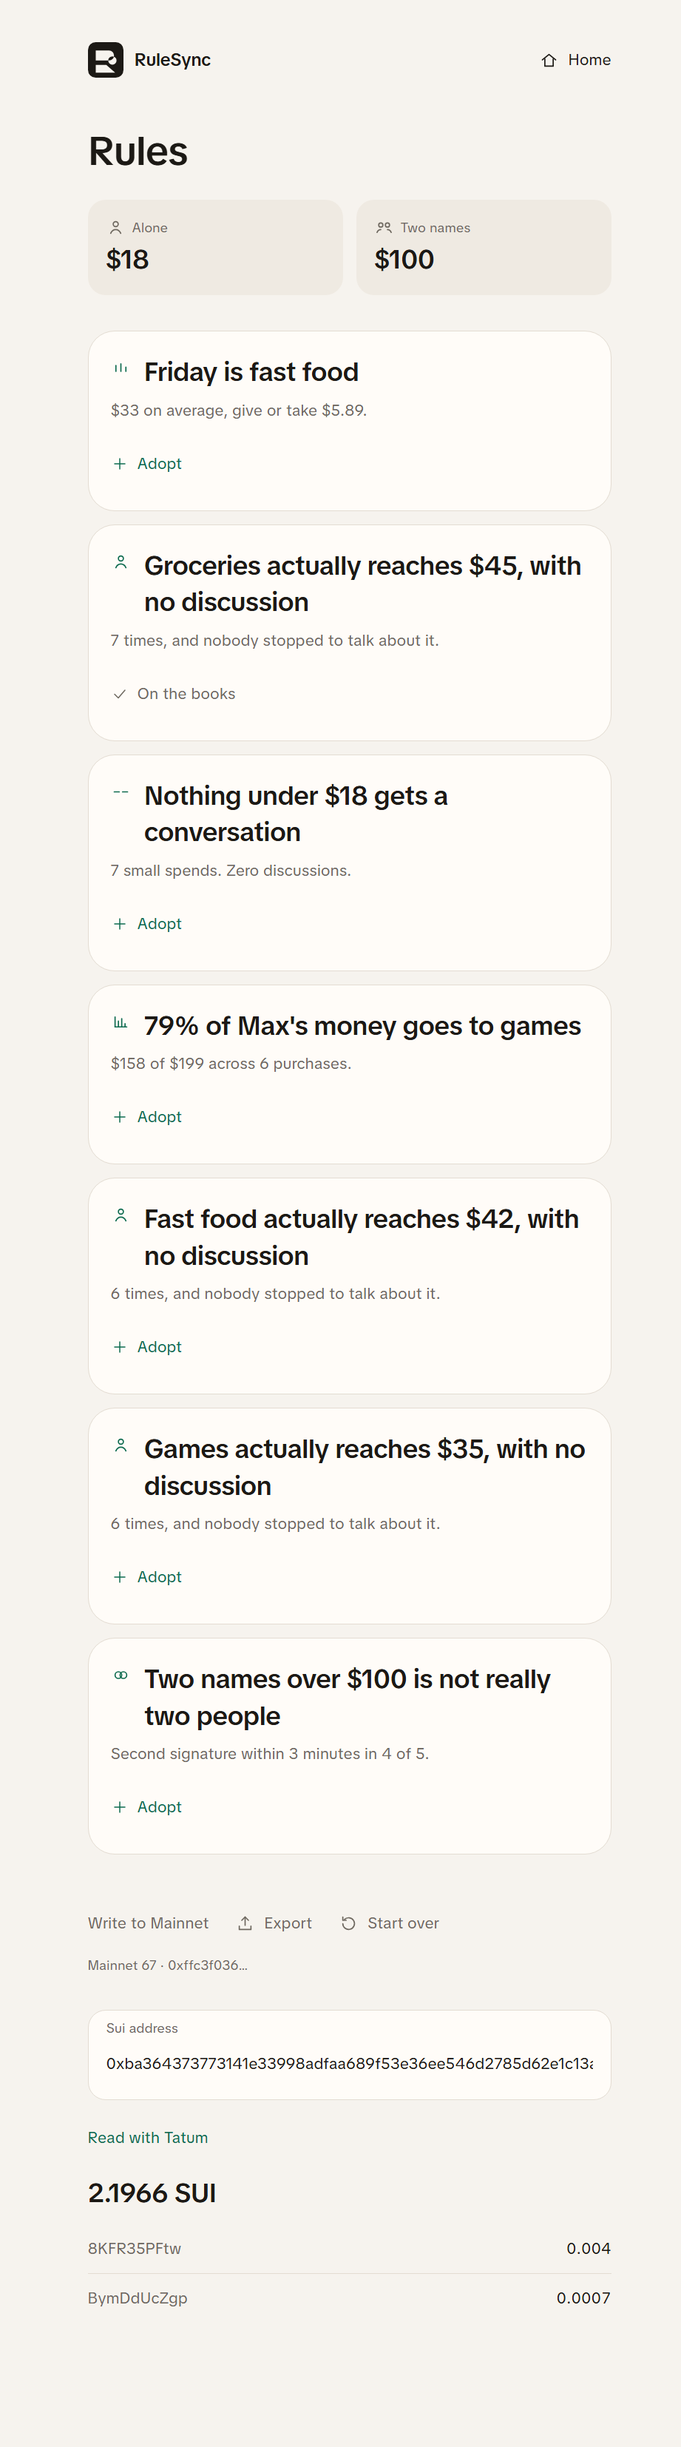
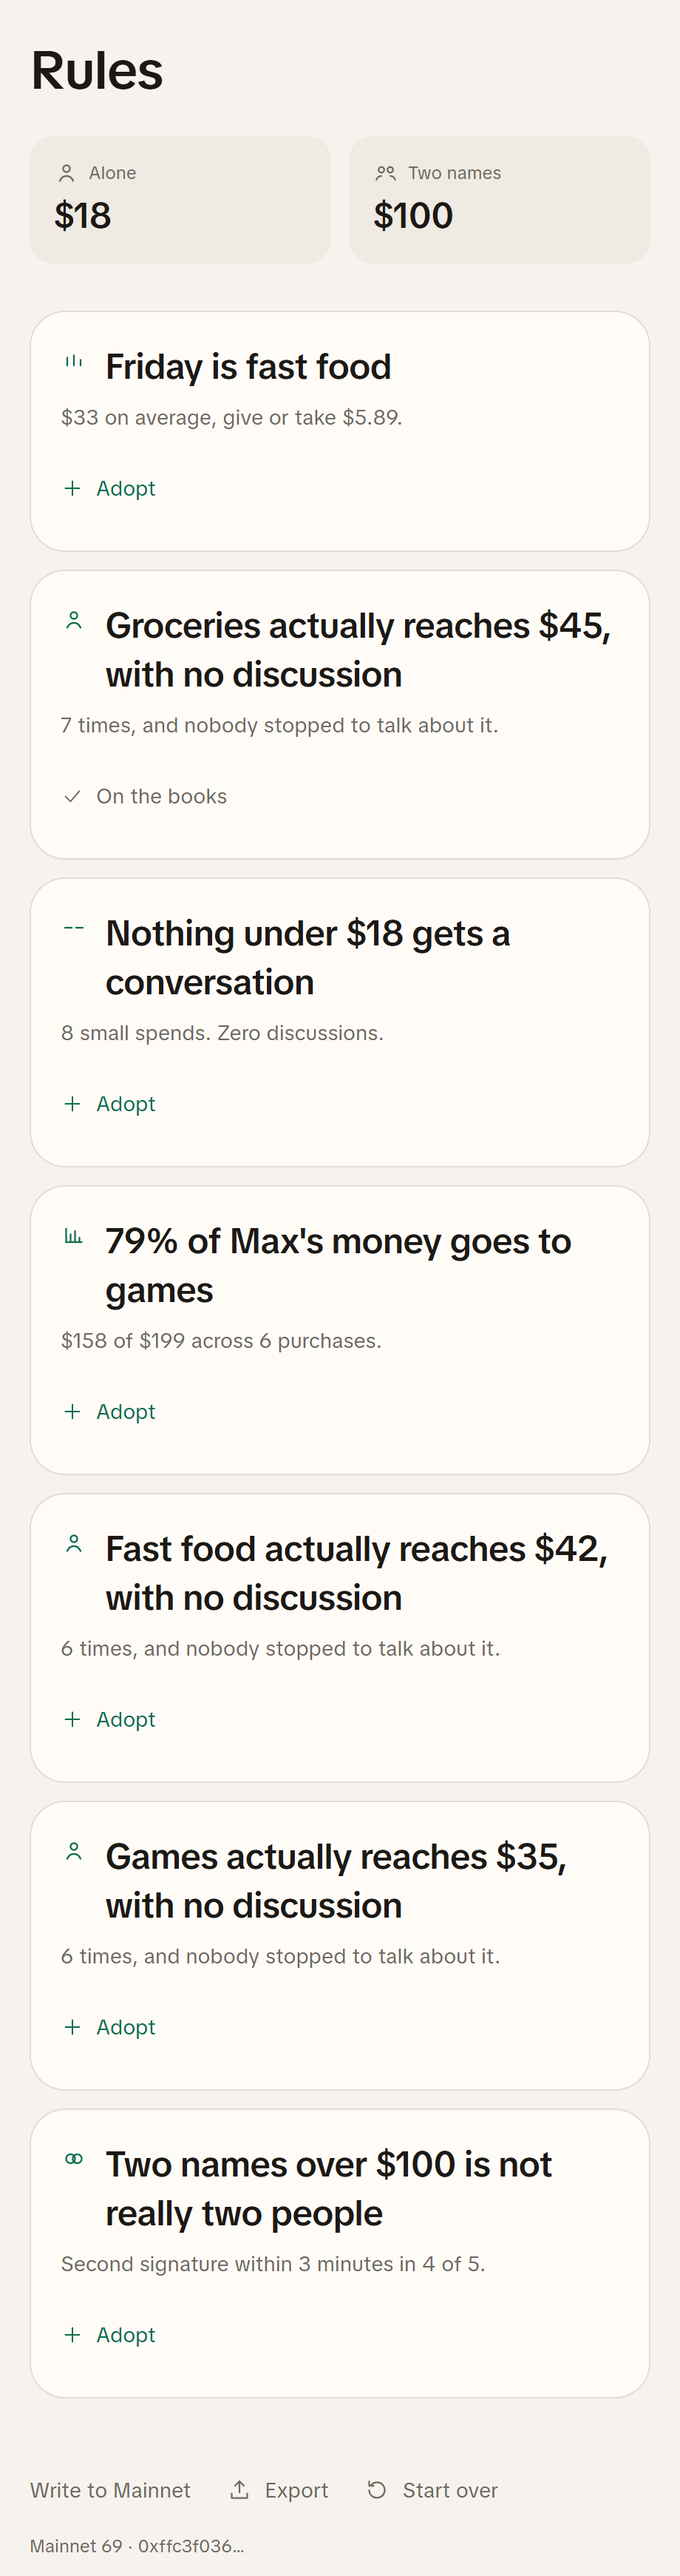
Show the house record in the memory panel and refresh the blog

diff --git a/src/lib/rulesync/chain.server.ts b/src/lib/rulesync/chain.server.ts
@@ -92,8 +92,14 @@ export async function listMemories(): Promise<{ ok: boolean; lines: string[]; er
   if (!walrusReady()) return { ok: false, lines: [], error: "Walrus is not configured" };
   try {
     const mem = await client();
-    const page = await mem.recall({ query: "RuleSync house spend adopted rule", limit: 30, namespace: NAMESPACE });
-    const lines = uniqueLines(page.results.map((hit) => hit.text)).filter((t) => t.startsWith("RuleSync "));
+    const [house, broad] = await Promise.all([
+      mem.recall({ query: HOUSE_QUERY, limit: 4, namespace: NAMESPACE }),
+      mem.recall({ query: "RuleSync spend adopted rule household", limit: 30, namespace: NAMESPACE }),
+    ]);
+    const lines = uniqueLines([
+      ...house.results.map((hit) => hit.text),
+      ...broad.results.map((hit) => hit.text),
+    ]).filter((t) => t.startsWith("RuleSync "));
     return { ok: true, lines };
   } catch (err) {
     return { ok: false, lines: [], error: err instanceof Error ? err.message : "Recall failed" };

diff --git a/blog/rulesync-total-recall.md b/blog/rulesync-total-recall.md
@@ -31,7 +31,7 @@ Each pattern needs repetition before it is allowed to speak. Nothing is inferred
 
 On the sample house that produces seven lived rules, including "Friday is fast food, $33 on average," "Groceries actually reaches $45," "79% of Max's money goes to games," and "Second signature within 3 minutes in 4 of 5."
 
-![Rules screen with the learned rules, adopted rule, Mainnet count, and Tatum reads](https://raw.githubusercontent.com/thesithunyein/rulesync/main/blog/images/rules.png)
+![Rules screen with the learned rules and the live Mainnet count](https://raw.githubusercontent.com/thesithunyein/rulesync/main/blog/images/rules.png)
 
 ## What gets remembered
 
@@ -51,6 +51,8 @@ The sentence is for recall and for a human reading the namespace. The payload is
 
 Rules the house has not adopted are recomputed from the restored spends. That keeps one source of truth: decisions and adoptions are memory, everything else is derived.
 
+The Rules screen also lists the rows Walrus actually returns in a Memory on Walrus panel, so the memory is inspectable rather than implied. A record that cannot affect the ledger, such as a spend with a non-positive amount, is ignored on restore and hidden from the panel.
+
 ## Restoring a house into an empty browser
 
 This is the part that matters. Everything above follows the house, not the browser. A new laptop, a cleared cache, or a second phone is where a shared budget normally dies.
@@ -61,15 +63,19 @@ On a cold load the app recovers the namespace before it shows anything to create
 
 `localStorage` cannot do this. It is per browser, it is a blob the app cannot query, and the second person in the household cannot see it. For shared money the memory has to live somewhere both people can reach, and it has to be readable by the app rather than by whoever remembers the password.
 
-## Tatum: reading Sui without putting the chain on screen
+## Tatum: reading Sui, then importing a transfer
 
 The Rules screen reads a Sui address through Tatum's Sui GraphQL gateway at `https://sui-mainnet.gateway.tatum.io/graphql`. JSON-RPC is no longer available on that gateway, so the app queries for the SUI balance and the last eight outgoing transactions, and turns negative balance changes into a short transfer list.
 
 At the time of writing the demo wallet reads 2.1966 SUI with two recent transfers.
 
-All of this happens in server functions. The Tatum key and the Walrus private key stay on the server; the browser only receives the balance, the transfer list, and the public account id. We checked the built client bundles for the key names before shipping.
+A transfer is a spend that already happened. Each row has an Import action: it opens the log sheet with the amount, digest and date prefilled, the house picks the member and the category, and saving writes a normal spend to Walrus. The spend is keyed by digest, so importing the same transfer twice is a no-op and the row switches to Imported.
 
-Tatum is read only in this version. The transfer list is the natural next join point: an outgoing payment is a spend, and importing one into the loop would make the onchain read part of the decision instead of a panel beside it.
+That puts Tatum inside the loop instead of beside it. Read the chain, bring one transfer into the ledger, and the same engine and the same memory handle it like any spend the house logged by hand.
+
+![Tatum transfers with one imported spend, and the Memory on Walrus panel](https://raw.githubusercontent.com/thesithunyein/rulesync/main/blog/images/memory.png)
+
+All of this happens in server functions. The Tatum key and the Walrus private key stay on the server; the browser only receives the balance, the transfer list, and the public account id. We checked the built client bundles for the key names before shipping.
 
 ## The bug we hit
 
@@ -105,16 +111,15 @@ The lesson is worth passing on: when a memory is a structured record rather than
[1 lines of base64/hex data omitted]
 | Namespace | `rulesync` |
 | Relayer | `https://relayer.memory.walrus.xyz` |
-| Memory rows | 67 (34 distinct records: the house, 32 spends, and the adopted grocery rule) |
+| Memory rows | 69 (36 distinct records: the house, 33 spends, the adopted grocery rule, and one superseded import row that restore ignores) |
 | Sui reads | Tatum Sui GraphQL |
 
 The extra rows are from an early seeding test that wrote the sample more than once. Rows are de-duplicated by record id on restore, so the extra copies are harmless, and the count is the live count the app shows.
 
 ## What is next
 
-- Import an outgoing Sui transfer as a spend, so Tatum feeds the loop instead of sitting beside it.
-- A memory panel that lists what the house remembers and which memory changed the last verdict.
 - A namespace per house, so two households can share the same account without mixing records.
+- A verdict that cites the exact memory row it used, not just the rule it came from.
 
 ## Try it in a minute
 
@@ -123,5 +128,7 @@ The extra rows are from an early seeding test that wrote the sample more than on
 3. Adopt the rule the home screen proposes.
 4. Log a grocery above the cap and read the verdict.
 5. Open Rules to see the Mainnet count and the Sui balance from Tatum.
+6. Import an outgoing transfer and watch it join the ledger as a spend.
+7. Scroll to Memory on Walrus and read the rows the house actually remembers.
 
 Built for the Tatum x Walrus Total Recall hackathon, Consumer Finance track.
